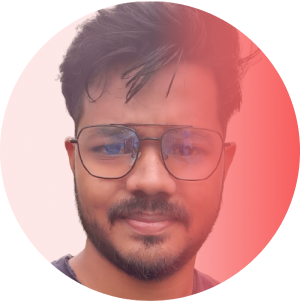
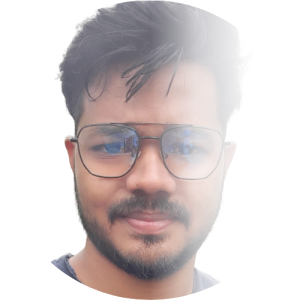
prod

diff --git a/src/App.vue b/src/App.vue
@@ -52,7 +52,6 @@ export default {
   },
 
   data: () => ({
-    //
   }),
   mounted() {
   },
@@ -64,7 +63,7 @@ export default {
         return "bg-img-" + this.$store.state.currentTheme
       }
 
-    }
+    },
   }
 }
 </script>

diff --git a/src/components/other-components/shapes/ArrowOutline.vue b/src/components/other-components/shapes/ArrowOutline.vue
@@ -8,7 +8,7 @@
 <!--  -->
 <style lang="scss" scoped>
 .move-top {
-  animation: move-top 10s ease-in-out infinite;
+  animation: move-top 15s ease-in-out infinite;
   transform-origin: center;
   position: relative;
 }

diff --git a/src/components/home-page-components/AboutMe.vue b/src/components/home-page-components/AboutMe.vue
@@ -25,7 +25,7 @@
 <!--  -->
 <style lang="scss" scoped>
 .profile-img {
-  width: 100%;
+  width: 90%;
 }
 
 .get-cv-btn {
